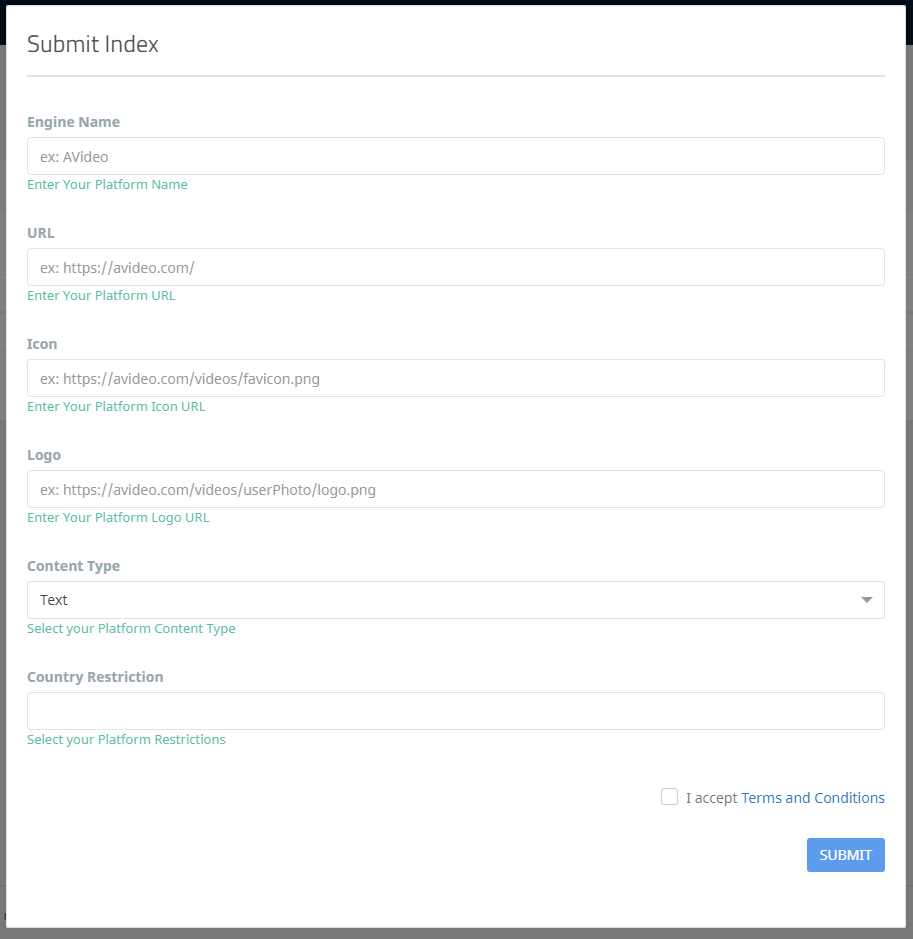
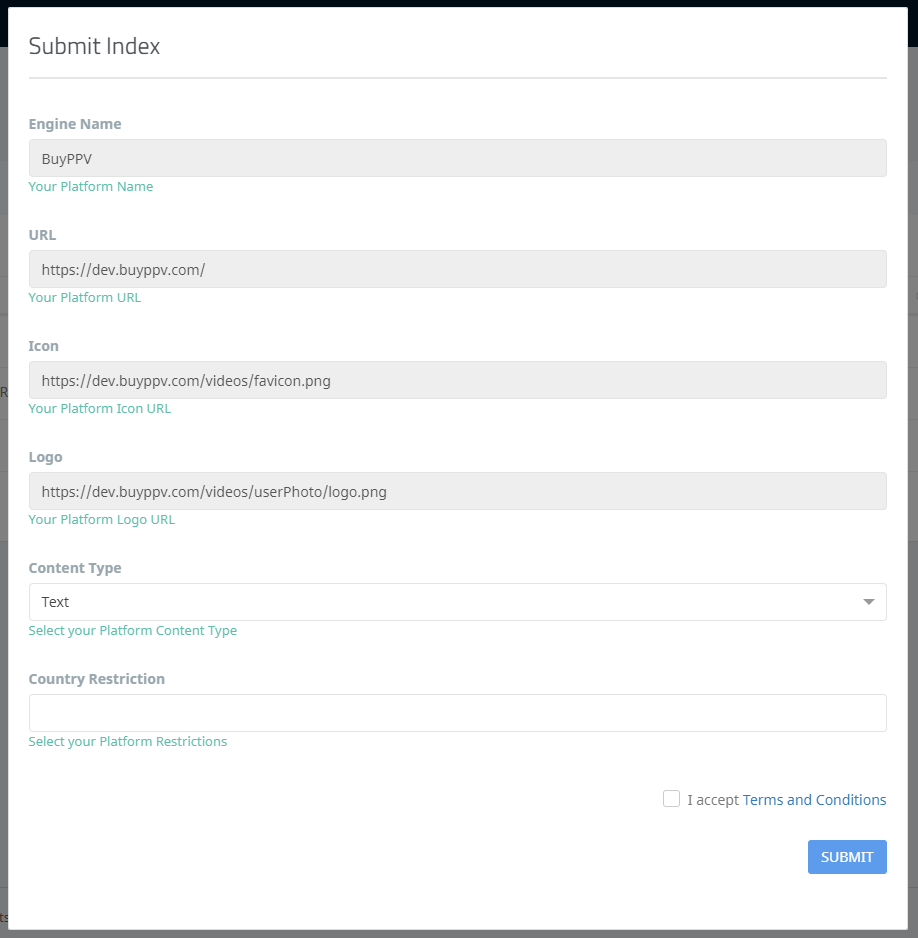
update for wwbn plugin info page

Changed region(s): [[0.0, 0.0, 1.0, 1.0]]

diff --git a/plugin/WWBN/page/info.php b/plugin/WWBN/page/info.php
@@ -61,7 +61,7 @@ if(empty($obj)){
 			        		<b>Encountering Error</b> <br><br>
 			        		<ul>
 			        			<li>
-			        				Email is already registered. Possible reason is you have unsubscribe your account or your account isn't approve yet by the admin, just click <b>click here</b> (#2) to request/notify the admin about your registration again. <br>
+			        				Email is already registered. Possible reason is your account isn't approve yet by the admin, just click the <b>click here</b> link (#2) to request/notify the admin about your registration again if your registration is taking more days. <br>
 			        				<img src="../assets/images/email_already_registered.PNG"><br><br>
 			        			</li>
 			        		</ul>
@@ -74,7 +74,7 @@ if(empty($obj)){
 			        				<img src="../assets/images/network_index_module.PNG" width="100%"><br><br>
 			        			</li>
 			        			<li>
-			        				Fill-up the information for your platform
+			        				Change the two fields depends on what you like, only the Content Type and Country Restriction will be editable and the other four fields are auto generated.
 			        				<img src="../assets/images/submit_index.PNG"><br><br>
 			        			</li>
 			        		</ul>
@@ -84,10 +84,10 @@ if(empty($obj)){
 			        		<ul>
 			        			<li>
 			        				This will be look like when successfully submitted an index; <br>
-			        				<b>1</b> - Edit button, to edit the content type and restriction <br>
-			        				<b>2</b> - Link button, this will redirect to your platform (URL) <br>
-			        				<b>3</b> - Deactivate button, this will remove your index<br>
-			        				<b>4</b> - Active/Deactivated, Active means your index has been approved and Deactivated means not <br>
+			        				<b>1</b> - Edit button, to edit the content type and restriction fields <br>
+			        				<b>2</b> - Link button, this will be the redirect link to your platform (URL) <br>
+			        				<b>3</b> - Deactivate/Re-activate button, deactivating will remove your index to all affilates connected with and the re-activate will send an notification for activation similar when submitting new index<br>
+			        				<b>4</b> - Active/Deactivated, Active means your index can be assigned to any affiliates and Deactivated means your index is not available to be index. <br>
 			        				<img src="../assets/images/index_info.PNG" width="100%"><br><br>
 			        			</li>
 			        			<!-- <li>
